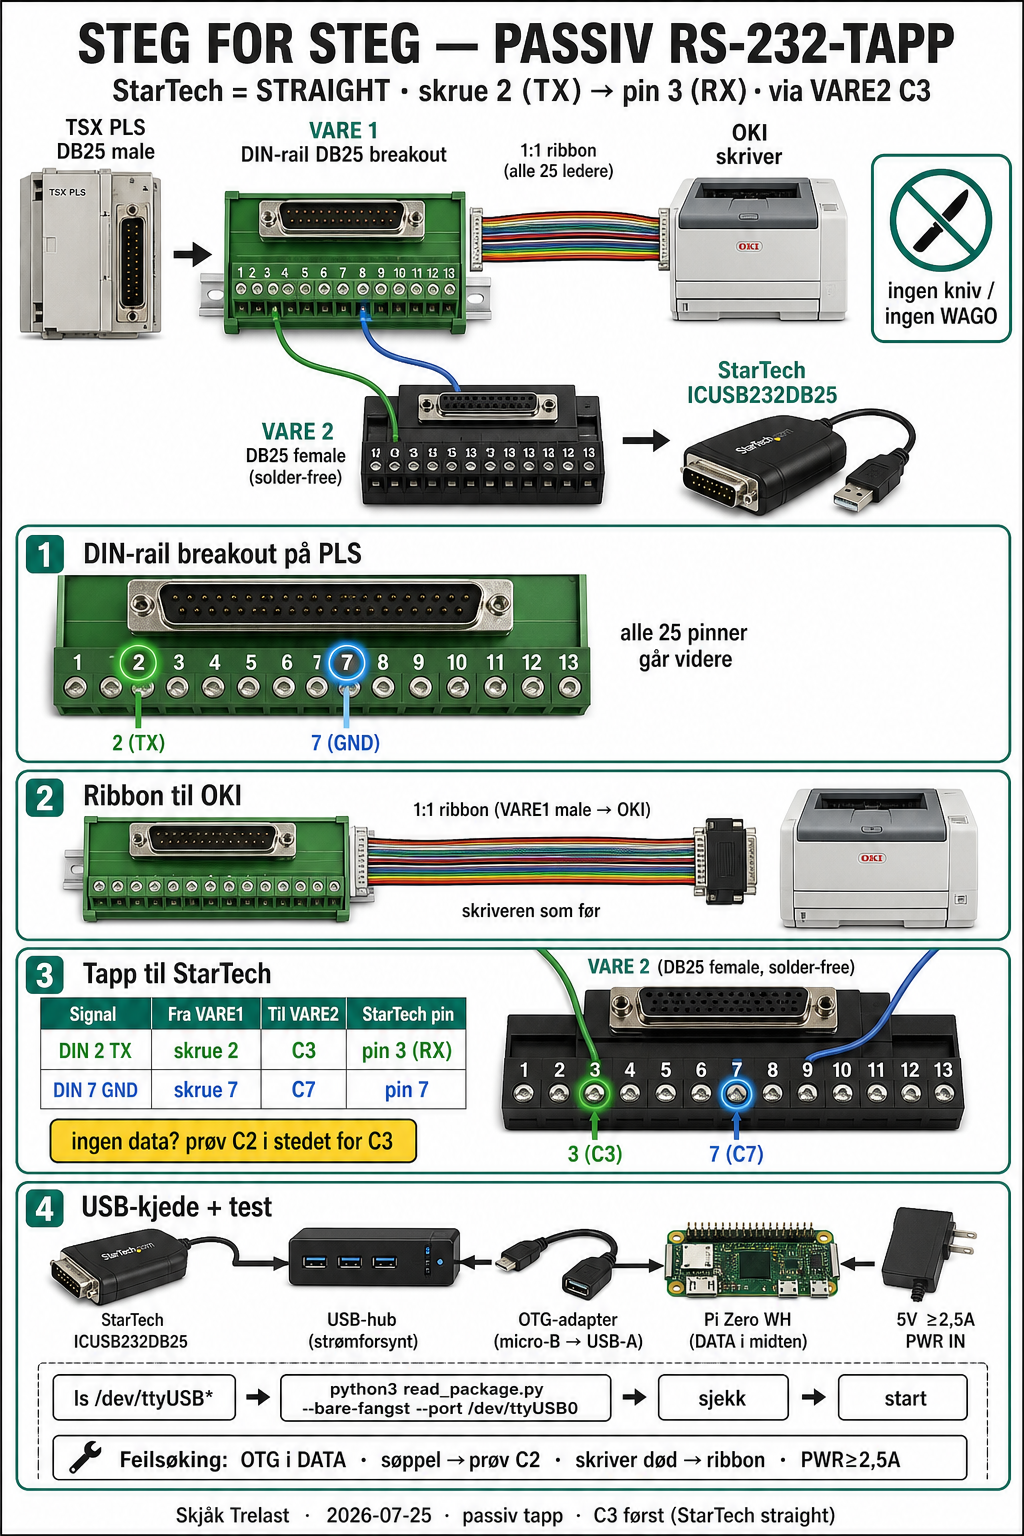
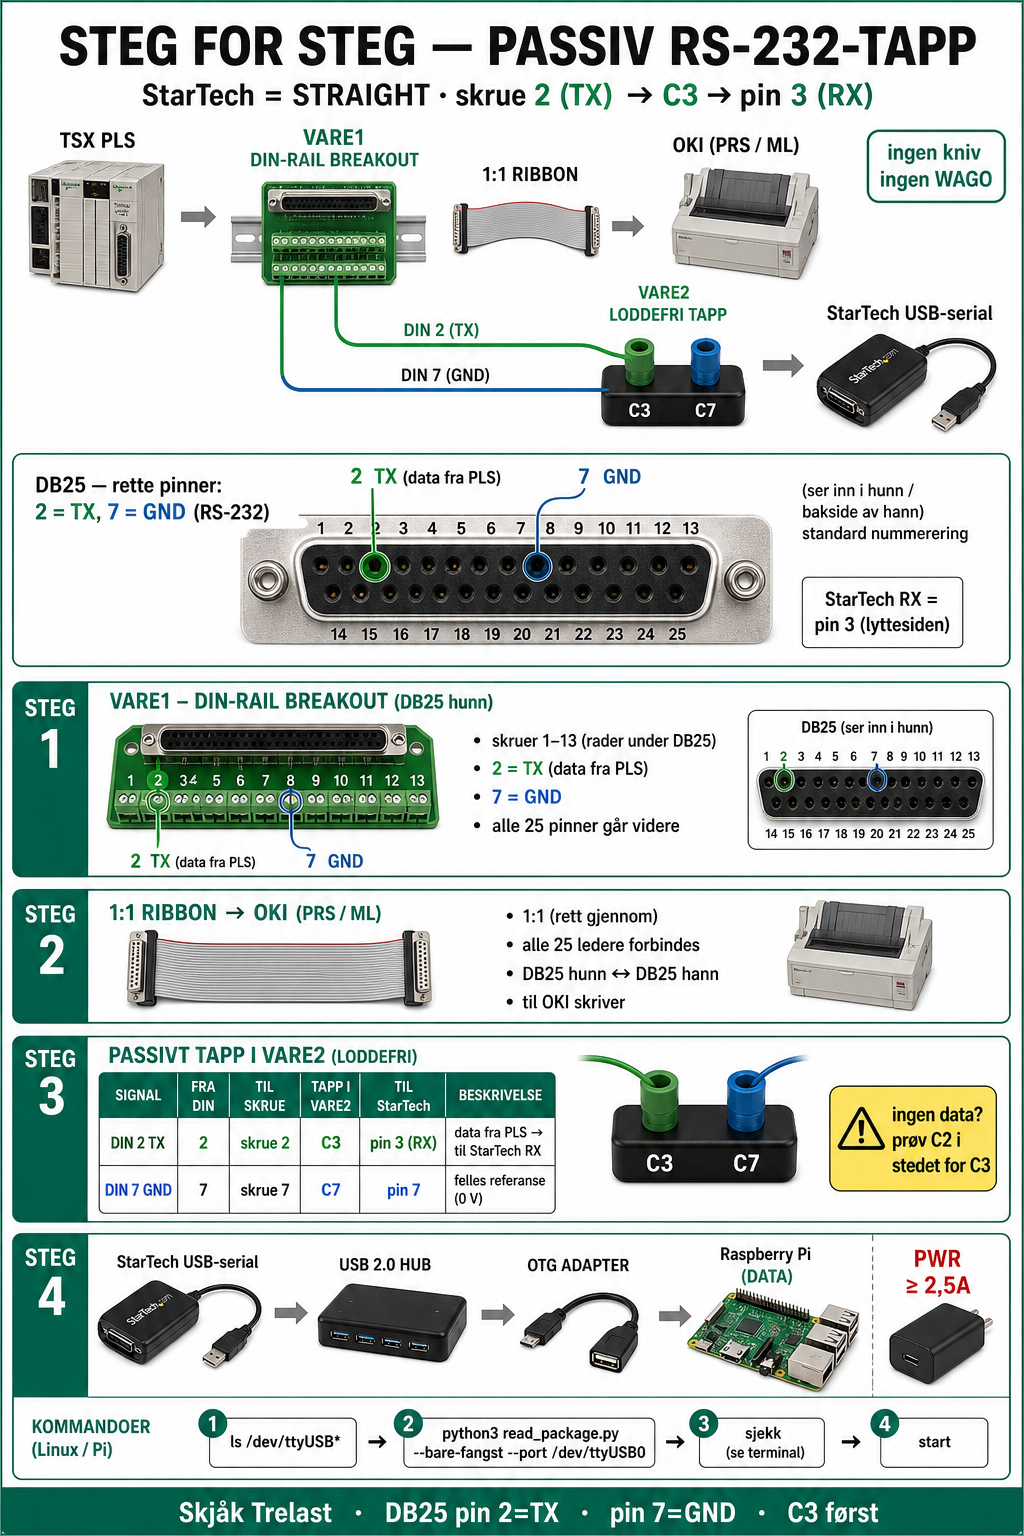
DB25-pinnekart: merk pin 2=TX, 7=GND og StarTech pin 3=RX
Eget diagram + oppdatert plakat/README/wiring/HANDOFF så montør
ser hvilke DB25-pinner som er rette før skruetapping.

diff --git a/docs/no/HANDOFF-CLAUDE.md b/docs/no/HANDOFF-CLAUDE.md
@@ -82,12 +82,22 @@ Ingen kniv/WAGO når A brukes.
 2. **DATA / OTG** (midt) ← hub  
 3. **PWR IN** (helt **høyre**) ← kun 5V  
 
+### DB25 — rette pinner (anlegg)
+
+<img src="img/db25-rette-pinner.png" width="100%" alt="DB25 pin 2=TX, pin 7=GND"/>
+
+| DB25-pin | Signal | Hvor |
+|----------|--------|------|
+| **2** | **TX** | Data ut fra PLS — tapp her (VARE1/A-skrue 2) |
+| **7** | **GND** | Jord — tapp her (VARE1/A-skrue 7) |
+| **3** | **RX** | StarTech-lytting (straight) — derfor **C3** |
+
 ### Pinner (StarTech = typisk straight / DTE)
 
 | Fra A (anlegg) | Signal | → | Til C (mot D / StarTech) |
 |----------------|--------|---|---------------------------|
-| skrue **2** | TX | → | skrue **3** (RX) — prøv først* |
-| skrue **7** | GND | → | skrue **7** |
+| skrue **2** (= DB25 pin 2 TX) | TX | → | skrue **3** (= StarTech pin 3 RX) |
+| skrue **7** (= DB25 pin 7 GND) | GND | → | skrue **7** |
 
 **StarTech = straight (ikke null modem):** primærvei **A2 → C3 → pin 3 (RX)**, **A7 → C7**.  
 VARE2/C er 1:1 (skrue N = DB25-pin N) — derfor må TX inn på **C3**, ikke C2.  
@@ -101,7 +111,8 @@ La C-skruer utenom 2/3 og 7 stå **tomme** (ikke koble StarTech TX ut tilbake ti
 
 | Fil | Bruk |
 |-----|------|
-| [`img/steg-for-steg-passiv-rs232-tapp.png`](img/steg-for-steg-passiv-rs232-tapp.png) | **Primær plakat** — StarTech STRAIGHT, 2→3 |
+| [`img/steg-for-steg-passiv-rs232-tapp.png`](img/steg-for-steg-passiv-rs232-tapp.png) | **Primær plakat** — StarTech STRAIGHT, 2→C3→3 |
+| [`img/db25-rette-pinner.png`](img/db25-rette-pinner.png) | DB25-ansikt: pin **2=TX**, **7=GND**, StarTech **3=RX** |
 | [`img/bruksanvisning-tapp-foto.png`](img/bruksanvisning-tapp-foto.png) | Samme plakat (alias) |
 | [`img/passiv-rs232-tapp.png`](img/passiv-rs232-tapp.png) | Skjema A–G (tekst/steg) |
 | [`img/usb-kjede-komplett.png`](img/usb-kjede-komplett.png) | USB-kjønn OTG/hub |

diff --git a/README.en.md b/README.en.md
@@ -34,7 +34,9 @@ A Raspberry Pi listens silently on the RS-232 line between a Telemecanique TSX P
 
 <img src="docs/en/img/tap-mated.png" width="100%" alt="Step-by-step passive RS-232 tap, StarTech straight 2→3"/>
 
-The tap is **physically read-only**: only TX+GND from DIN-rail breakout screws 2/7 to solder-free female **C3**/C7 → StarTech **ICUSB232DB25** pin 3 RX (straight; fallback C2). Signal to `/dev/ttyUSB0`, not GPIO. The printer keeps printing as before. Guide: [docs/en/wiring.md](docs/en/wiring.md) · [HANDOFF-CLAUDE.md](docs/no/HANDOFF-CLAUDE.md).
+<img src="docs/en/img/db25-correct-pins.png" width="100%" alt="DB25 correct pins: pin 2=TX, pin 7=GND, StarTech RX=pin 3"/>
+
+The tap is **physically read-only**: only TX+GND from DIN-rail breakout screws 2/7 to solder-free female **C3**/C7 → StarTech **ICUSB232DB25** pin 3 RX (straight; fallback C2). On the DB25: **pin 2 = TX**, **pin 7 = GND** (plant); StarTech **pin 3 = RX**. Signal to `/dev/ttyUSB0`, not GPIO. The printer keeps printing as before. Guide: [docs/en/wiring.md](docs/en/wiring.md) · [HANDOFF-CLAUDE.md](docs/no/HANDOFF-CLAUDE.md).
 
 ---
 

diff --git a/docs/en/wiring.md b/docs/en/wiring.md
@@ -1,6 +1,18 @@
 # Wiring — parts A–G
 
-Source of truth (Norwegian lettered guide): [docs/no/wiring.md](../no/wiring.md) · images: [steg-for-steg-passiv-rs232-tapp.png](../no/img/steg-for-steg-passiv-rs232-tapp.png) · [passiv-rs232-tapp.png](../no/img/passiv-rs232-tapp.png)
+Source of truth (Norwegian lettered guide): [docs/no/wiring.md](../no/wiring.md) · images: [steg-for-steg-passiv-rs232-tapp.png](../no/img/steg-for-steg-passiv-rs232-tapp.png) · [db25-rette-pinner.png](../no/img/db25-rette-pinner.png) · [passiv-rs232-tapp.png](../no/img/passiv-rs232-tapp.png)
+
+## DB25 — correct pins
+
+Looking into the **female** (or from the rear of the **male**), standard RS-232 numbering:
+
+| Pin | Signal | Role here |
+|-----|--------|-----------|
+| **2** | **TX** | Data out from PLC — tapped on the plant side |
+| **7** | **GND** | Ground — tapped on the plant side |
+| **3** | **RX** | StarTech listen (straight) — hence **C3** |
+
+Screw **N** on the breakout = DB25 pin **N** (1:1).
 
 | | Part | Role |
 |--|------|------|

diff --git a/README.md b/README.md
@@ -41,9 +41,12 @@ og en OKI Microline 280. Hver pakkelapp parses til CSV/Excel — ingen manuell r
 
 <img src="docs/no/img/steg-for-steg-passiv-rs232-tapp.png" width="100%" alt="Steg for steg: passiv RS-232-tapp, StarTech straight 2→3"/>
 
+<img src="docs/no/img/db25-rette-pinner.png" width="100%" alt="DB25 rette pinner: pin 2=TX, pin 7=GND, StarTech RX=pin 3"/>
+
 <p style="font-size: 16px; line-height: 1.5">
 Tappen er <b>fysisk skrivebeskyttet</b>: kun TX+GND fra DIN-rail breakout (skrue 2/7)
 til loddefri hunn <b>C3</b> → StarTech <b>ICUSB232DB25</b> pin 3 RX (straight; fallback C2).
+På DB25: <b>pin 2 = TX</b>, <b>pin 7 = GND</b> (anlegg); StarTech <b>pin 3 = RX</b>.
 Signal til <code>/dev/ttyUSB0</code>, ikke GPIO. Skriveren fortsetter som før.
 Steg for steg: <a href="docs/no/wiring.md">docs/no/wiring.md</a> ·
 <a href="docs/no/HANDOFF-CLAUDE.md">HANDOFF-CLAUDE.md</a>.

diff --git a/docs/no/wiring.md b/docs/no/wiring.md
@@ -2,7 +2,21 @@
 
 <img src="img/steg-for-steg-passiv-rs232-tapp.png" width="100%" alt="Steg for steg passiv RS-232-tapp — StarTech straight"/>
 
+<img src="img/db25-rette-pinner.png" width="100%" alt="DB25 rette pinner: 2=TX, 7=GND, StarTech RX=pin 3"/>
+
 <img src="img/passiv-rs232-tapp.png" width="100%" alt="Skjema bruksanvisning A–G"/>
+
+## DB25 — rette pinner
+
+Ser du inn i **hunn** (eller bakfra på **hann**), standard RS-232-nummerering:
+
+| Pin | Signal | Rolle her |
+|-----|--------|-----------|
+| **2** | **TX** | Data ut fra PLS — tappes på anlegget |
+| **7** | **GND** | Jord — tappes på anlegget |
+| **3** | **RX** | StarTech-lytting (straight) — derfor **C3** |
+
+Skrue **N** på breakout = DB25-pin **N** (1:1).
 
 ## Gjenstander
 

diff --git a/CHANGELOG.md b/CHANGELOG.md
@@ -63,6 +63,7 @@ Tester: `cd python/no && python3 -m unittest test_register.py`
 - **Anbefalt tapp:** DB25-MG + hunn-terminal (A–G); WAGO/klipping **utdatert**
 - Utdaterte bilder `signal-flow.png` / `wiring-tap.png` erstattet med A–G-bruksanvisning
 - Primær plakat: `steg-for-steg-passiv-rs232-tapp.png` (StarTech **straight**, **A2→C3→pin 3**; fallback C2)
+- DB25-pinnekart: `db25-rette-pinner.png` — pin **2=TX**, **7=GND**, StarTech **3=RX**
 - Steg-bilder + Claude-PDF: `docs/no/rs232excel-2026-07-24-for-claude.pdf`
 - Markdown-handoff til Claude (fasit + alle bilder): `docs/no/HANDOFF-CLAUDE.md`
 - **PWR IN:** 5V / ≥2,5 A (helst 3 A) vegglader — ikke svak telefonlader

diff --git a/docs/no/INSTALLATION.md b/docs/no/INSTALLATION.md
@@ -128,6 +128,7 @@ python3 vis_status.py  # kjører uavhengig av fangst
 Fasit: [wiring.md](wiring.md) · [HANDOFF-CLAUDE.md](HANDOFF-CLAUDE.md)
 
 <img src="img/steg-for-steg-passiv-rs232-tapp.png" width="100%" alt="Steg for steg passiv RS-232-tapp"/>
+<img src="img/db25-rette-pinner.png" width="100%" alt="DB25 rette pinner: 2=TX, 7=GND, StarTech RX=3"/>
 <img src="img/passiv-rs232-tapp.png" width="100%" alt="Skjema A–G"/>
 
 > Ignorer gamle tekster/bilder med **WAGO**, «klipp pin 2/7», GPIO eller parallellport. Signal → **USB–RS232 → `/dev/ttyUSB0`**.

diff --git a/docs/en/INSTALLATION.md b/docs/en/INSTALLATION.md
@@ -92,6 +92,7 @@ python3 vis_status.py  # runs independently of capture
 Fasit: [wiring.md](wiring.md) · [../no/HANDOFF-CLAUDE.md](../no/HANDOFF-CLAUDE.md)
 
 <img src="img/tap-mated.png" width="100%" alt="Step-by-step passive RS-232 tap"/>
+<img src="img/db25-correct-pins.png" width="100%" alt="DB25 correct pins: 2=TX, 7=GND, StarTech RX=3"/>
 <img src="img/passive-rs232-tap.png" width="100%" alt="A–G schematic"/>
 
 > Ignore old text/images with **WAGO**, “cut pins 2/7”, GPIO, or parallel port. Signal → **USB–RS232 → `/dev/ttyUSB0`**.
